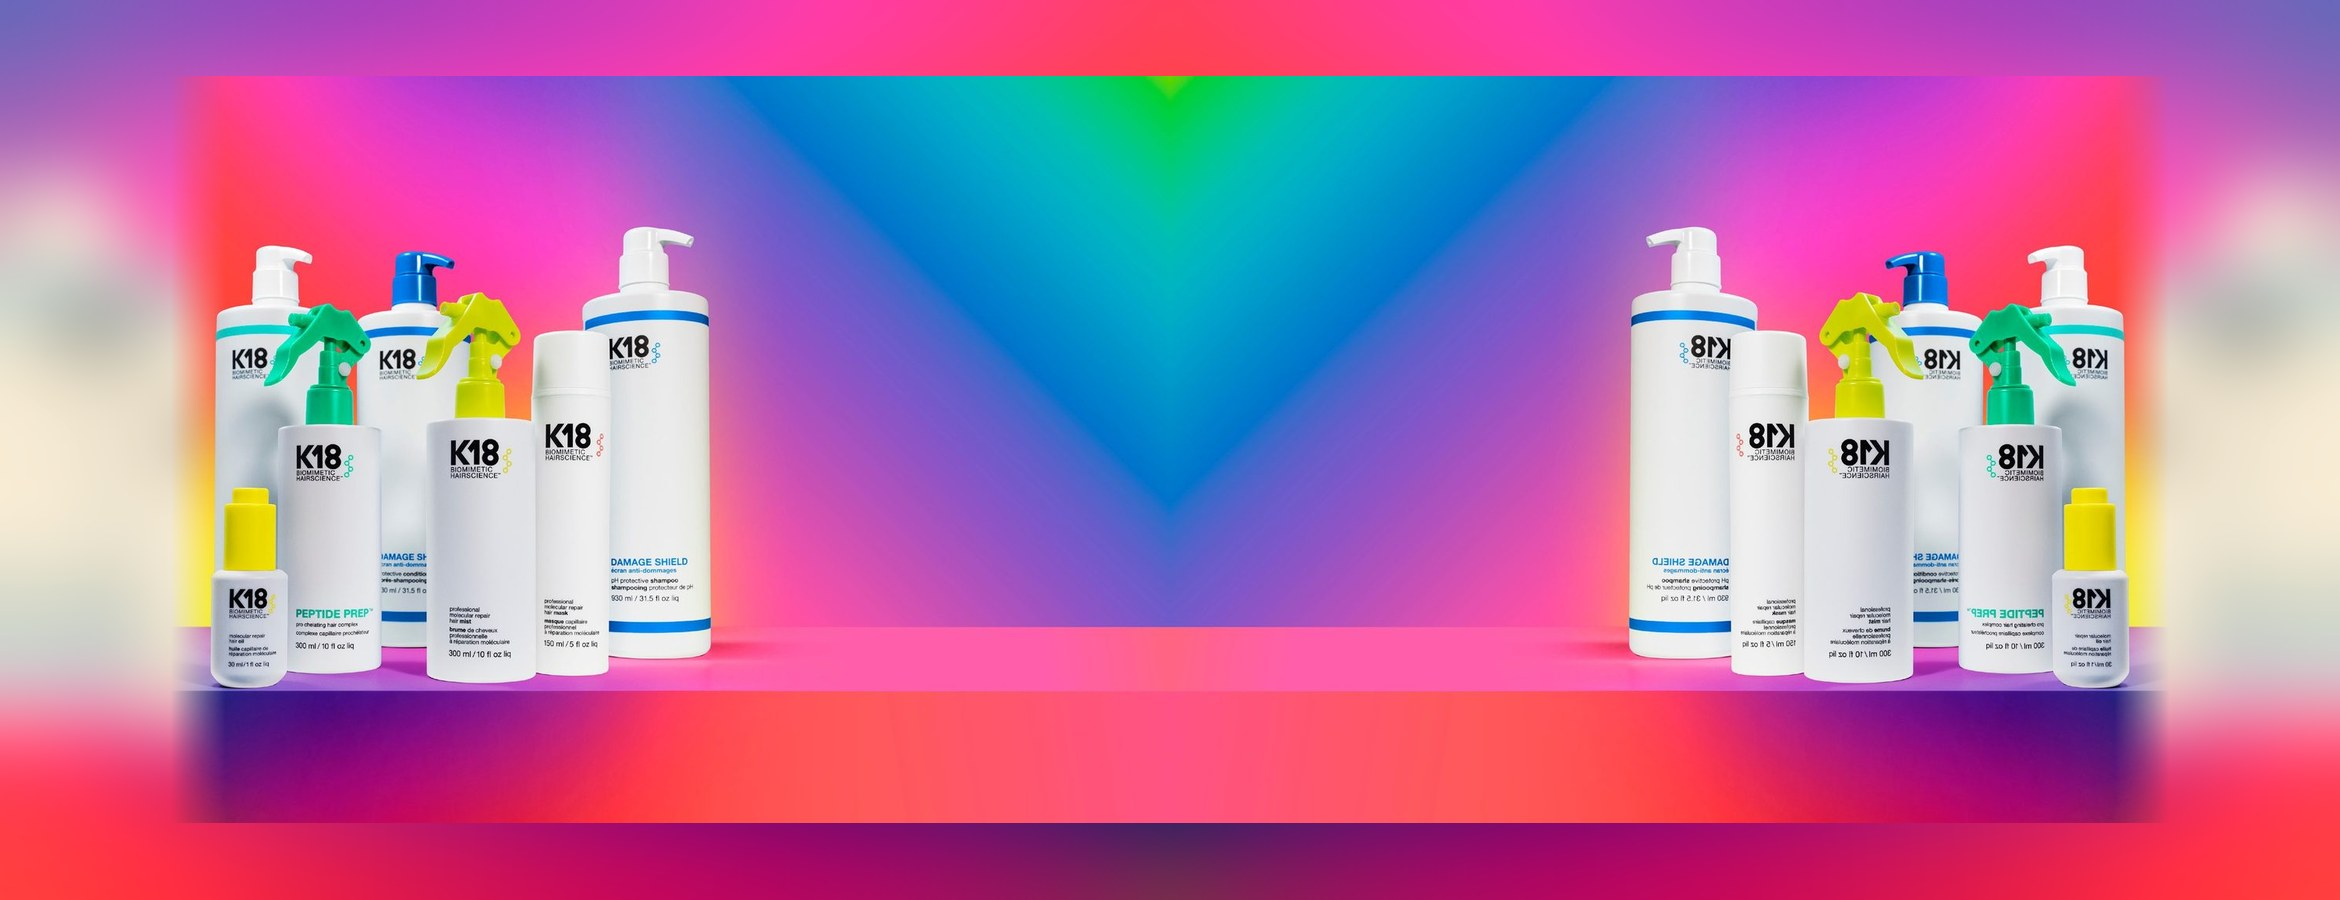
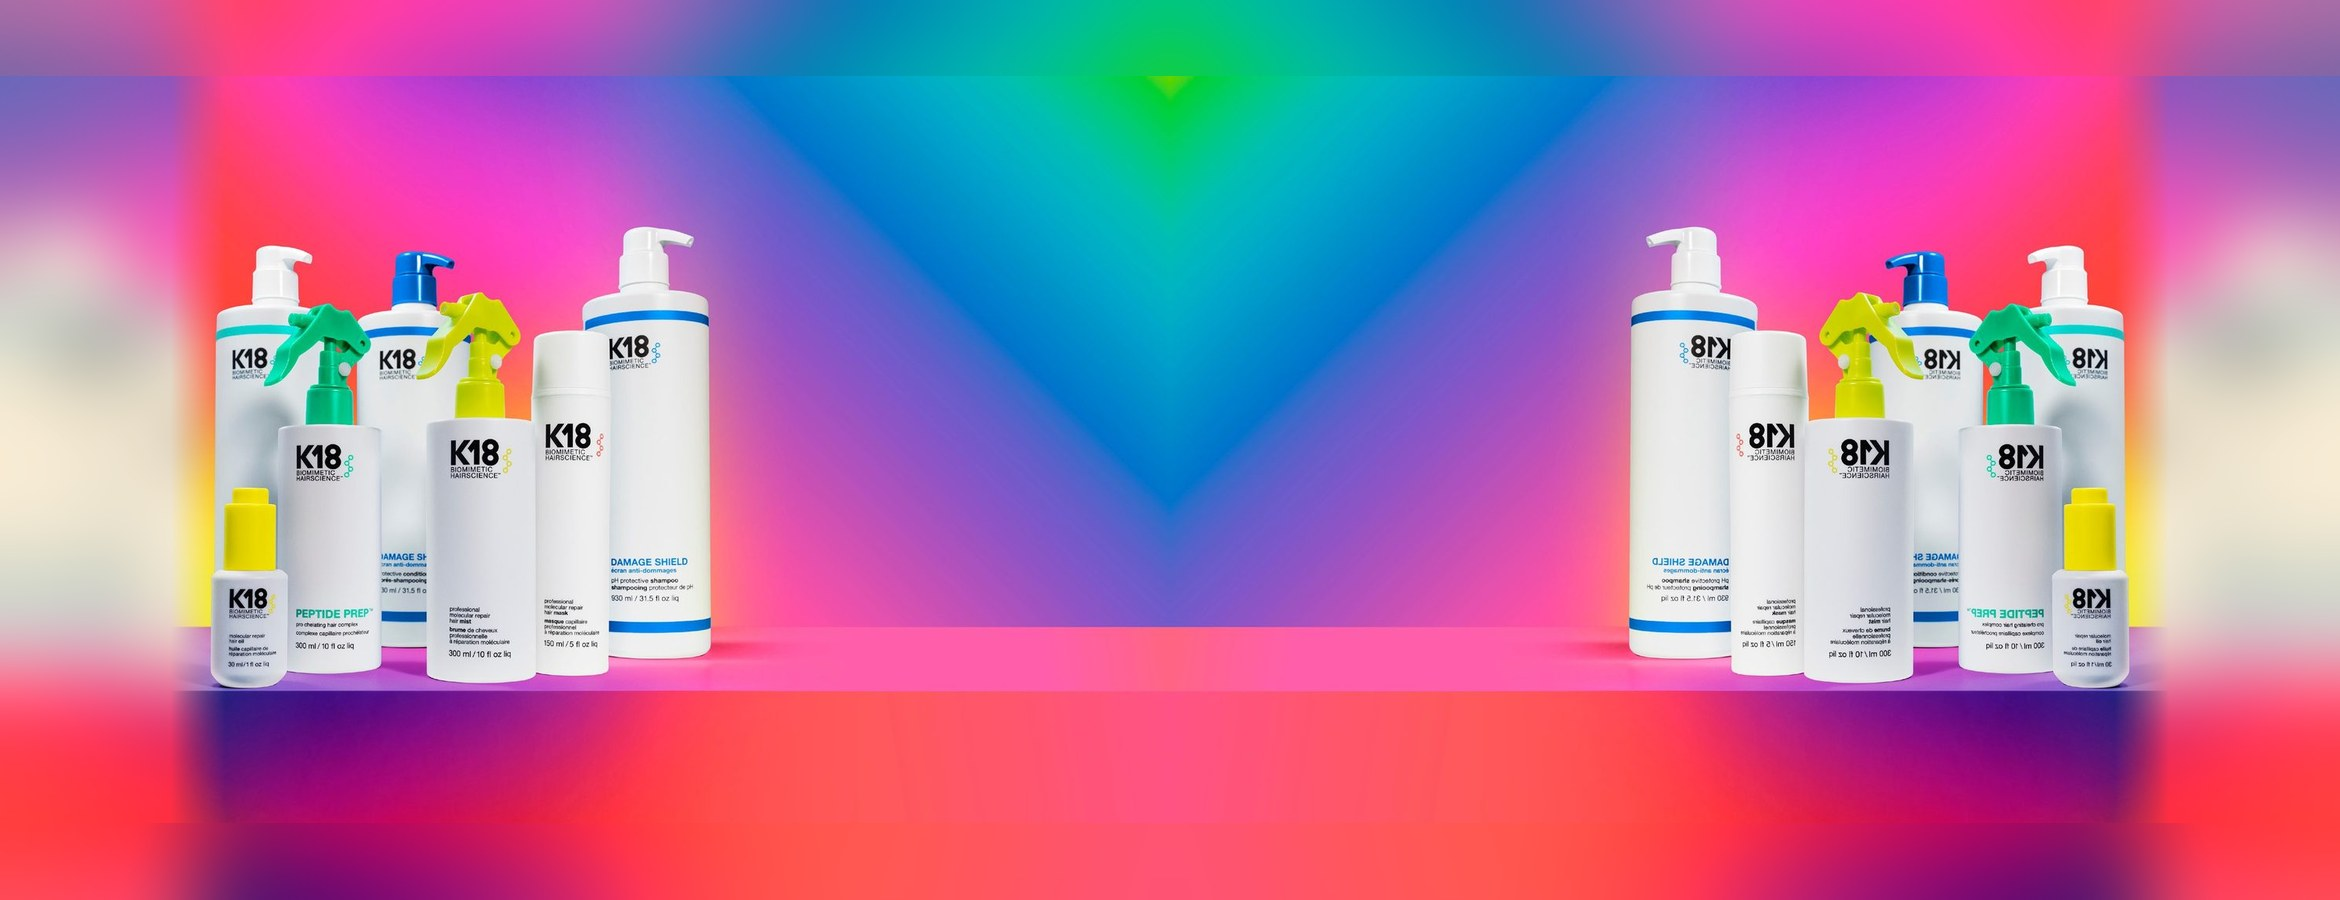
Fix K18's mismatched top/bottom band (the remaining "block" look)
K18's real content is shorter than the canvas (letterboxed), but the
corner fill was being stretched to the full canvas height regardless —
so the colour just above/below the actual photo didn't line up with
its own top/bottom edge, reading as a hard-edged rectangle around the
product shot. Builds the side fills at the content's own height first,
then derives separate top/bottom bands from that same strip's edges
(mirrored vertically) so they actually continue from where the real
photo leaves off.

Changed region(s): [[0.0, 0.6844, 1.0, 1.0], [0.0, 0.0, 1.0, 0.3422]]

diff --git a/src/lib/ui.jsx b/src/lib/ui.jsx
@@ -622,7 +622,7 @@ export function DoodlePalette({ size = 19, active }) {
 // more than once since the path alone doesn't change. A query string on
 // the URL forces every client to fetch fresh without having to rename
 // files each time.
-const BRAND_PHOTO_VERSION = 7;
+const BRAND_PHOTO_VERSION = 8;
 
 export function brandHeaderPhoto(name) {
   const n = (name || "").toLowerCase();
